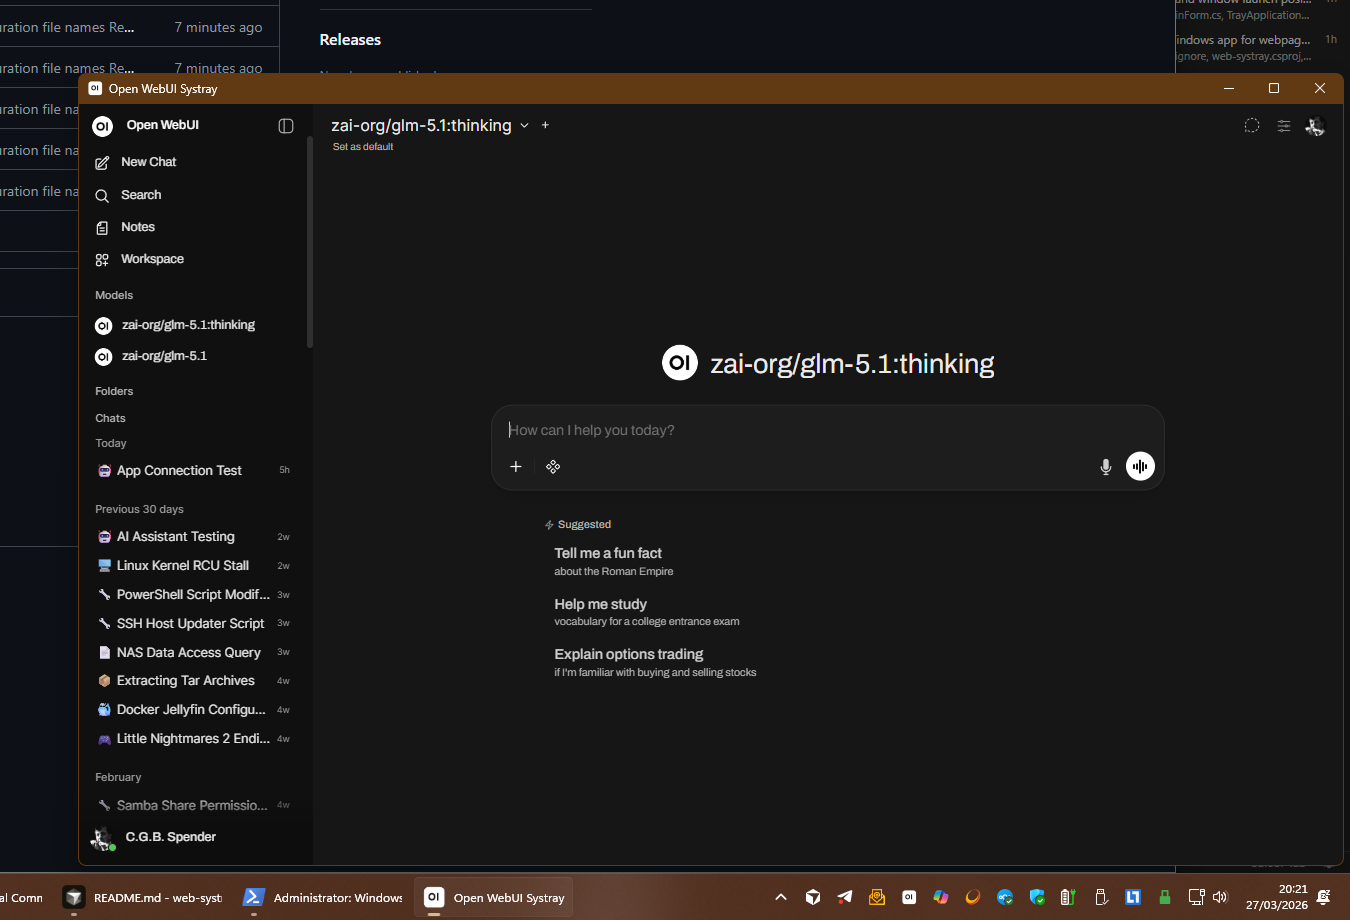
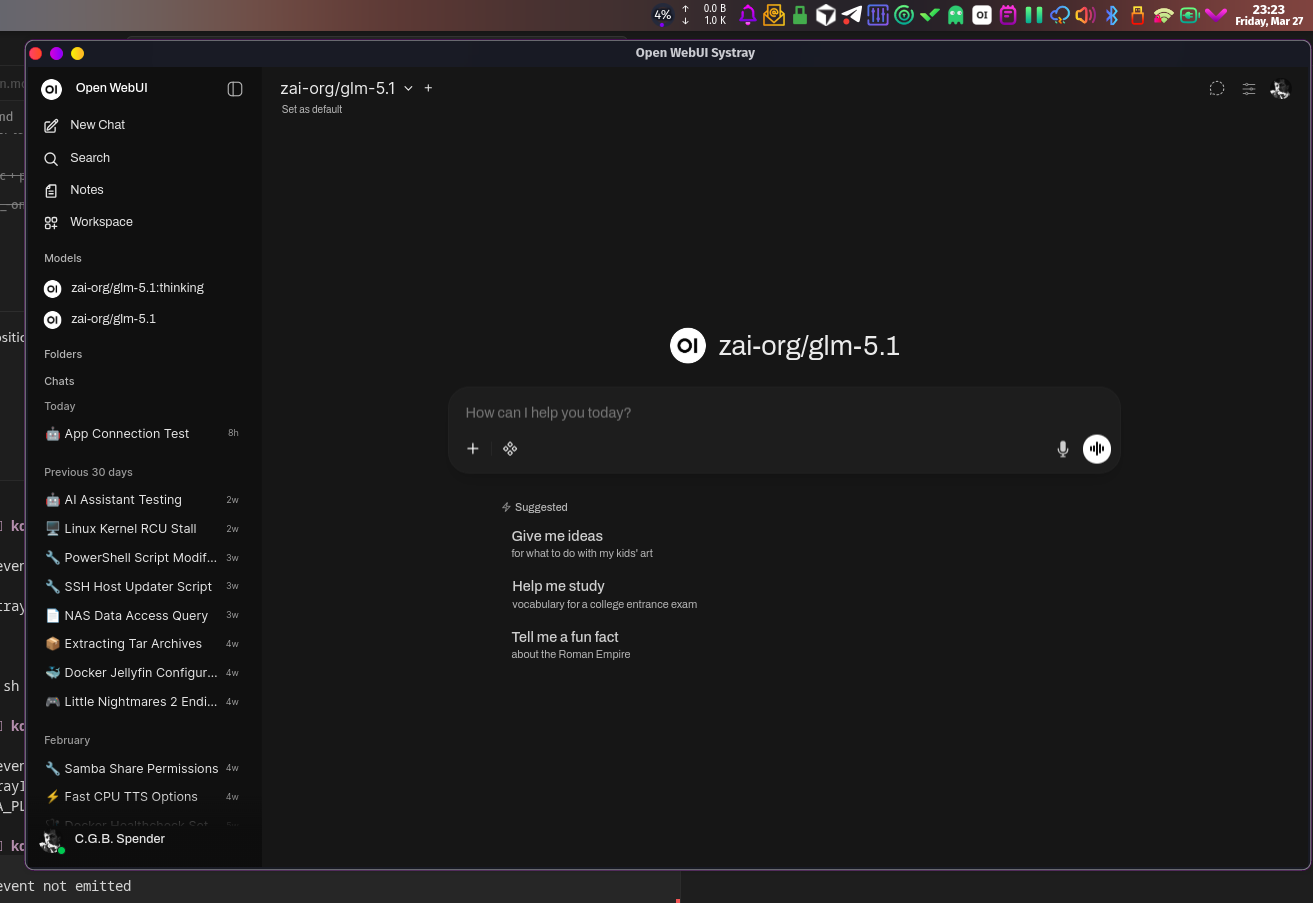
Refactor application to Python with PyQt6

diff --git a/src/open_webui_systray/mainwindow.py b/src/open_webui_systray/mainwindow.py
@@ -2,15 +2,18 @@
 
 from __future__ import annotations
 
+import sys
 from urllib.parse import urlparse
 
-from PyQt6.QtCore import QUrl, Qt
-from PyQt6.QtGui import QColor, QCloseEvent, QIcon
+from PyQt6.QtCore import QTimer, QUrl, Qt
+from PyQt6.QtGui import QColor, QCloseEvent, QGuiApplication, QIcon, QShowEvent
 from PyQt6.QtWebEngineCore import QWebEnginePage, QWebEngineProfile, QWebEngineSettings
 from PyQt6.QtWebEngineWidgets import QWebEngineView
-from PyQt6.QtWidgets import QApplication, QMainWindow, QMessageBox
+from PyQt6.QtWidgets import QApplication, QMainWindow, QMessageBox, QSystemTrayIcon
 
 from open_webui_systray.config import data_dir
+
+_EDGE_MARGIN = 8
 
 
 def _is_navigation_allowed(uri_string: str, allowed_host: str) -> bool:
@@ -50,19 +53,22 @@ class RestrictedWebEnginePage(QWebEnginePage):
 
 
 class MainWindow(QMainWindow):
-    def __init__(self, start_url: str, window_icon: QIcon, parent=None) -> None:
+    def __init__(
+        self,
+        start_url: str,
+        window_icon: QIcon,
+        tray: QSystemTrayIcon | None = None,
+        parent=None,
+    ) -> None:
         super().__init__(parent)
         self._start_url = start_url
         self._force_quit = False
+        self._page: RestrictedWebEnginePage | None = None
+        self._tray = tray
 
         self.setWindowTitle("Open WebUI Systray")
         self.resize(1280, 800)
         self.setWindowIcon(window_icon)
-
-        screen = self.screen() or QApplication.primaryScreen()
-        if screen is not None:
-            wa = screen.availableGeometry()
-            self.move(wa.right() - self.width(), wa.bottom() - self.height())
 
         self.setStyleSheet("background-color: black;")
 
@@ -72,28 +78,81 @@ class MainWindow(QMainWindow):
             raise ValueError("Start URL must include a host.")
 
         storage_root = data_dir()
-        profile = QWebEngineProfile("OpenWebUiSystray")
+        # defaultProfile() avoids PyQt/QtWebEngine destroying a custom profile before the page
+        # (see Qt warning "Release of profile requested but WebEnginePage still not deleted").
+        profile = QWebEngineProfile.defaultProfile()
         profile.setPersistentStoragePath(str(storage_root / "qtwebengine"))
         profile.setCachePath(str(storage_root / "qtwebengine-cache"))
 
-        page = RestrictedWebEnginePage(allowed_host, profile, self)
-        settings = page.settings()
+        self._web_view = QWebEngineView(self)
+        self._page = RestrictedWebEnginePage(allowed_host, profile, self._web_view)
+        settings = self._page.settings()
         settings.setAttribute(QWebEngineSettings.WebAttribute.JavascriptEnabled, True)
 
-        self._web_view = QWebEngineView(self)
-        self._web_view.setPage(page)
+        self._web_view.setPage(self._page)
         self._web_view.setStyleSheet("background-color: black;")
-        page.setBackgroundColor(QColor(0, 0, 0))
+        self._page.setBackgroundColor(QColor(0, 0, 0))
         self._web_view.setZoomFactor(0.9)
         self.setCentralWidget(self._web_view)
 
         self._web_view.load(QUrl(start_url))
+
+    def position_near_tray(self, tray: QSystemTrayIcon) -> None:
+        """Place top-right or bottom-right of the work area from tray geometry, else platform fallback."""
+        w, h = self.width(), self.height()
+        g = tray.geometry()
+        screen = None
+
+        if g.width() > 0 and g.height() > 0:
+            screen = QGuiApplication.screenAt(g.center())
+        if screen is None:
+            wh = self.windowHandle()
+            if wh is not None:
+                screen = wh.screen()
+        if screen is None:
+            screen = self.screen() or QApplication.primaryScreen()
+        if screen is None:
+            return
+        wa = screen.availableGeometry()
+
+        if g.width() > 0 and g.height() > 0:
+            tray_top = g.center().y() < wa.center().y()
+            x = wa.right() - w - _EDGE_MARGIN
+            if tray_top:
+                y = wa.top() + _EDGE_MARGIN
+            else:
+                y = wa.bottom() - h - _EDGE_MARGIN
+        else:
+            x = wa.right() - w - _EDGE_MARGIN
+            if sys.platform == "win32":
+                y = wa.bottom() - h - _EDGE_MARGIN
+            else:
+                y = wa.top() + _EDGE_MARGIN
+
+        x = max(wa.left(), min(x, wa.right() - w))
+        y = max(wa.top(), min(y, wa.bottom() - h))
+        self.move(x, y)
+
+    def showEvent(self, event: QShowEvent) -> None:
+        super().showEvent(event)
+        if self._tray is not None:
+            self.position_near_tray(self._tray)
+            QTimer.singleShot(0, self._deferred_position_after_show)
+            QTimer.singleShot(50, self._deferred_position_after_show)
+
+    def _deferred_position_after_show(self) -> None:
+        if self._tray is not None:
+            self.position_near_tray(self._tray)
 
     def prepare_force_quit(self) -> None:
         self._force_quit = True
 
     def closeEvent(self, event: QCloseEvent) -> None:
         if self._force_quit:
+            # Drop the page before the window is destroyed so the profile is not torn down first.
+            if self._web_view is not None:
+                self._web_view.setPage(None)
+            self._page = None
             event.accept()
             return
         event.ignore()

diff --git a/src/open_webui_systray/tray.py b/src/open_webui_systray/tray.py
@@ -45,6 +45,7 @@ class TrayManager:
     def __init__(self, start_url: str) -> None:
         self._start_url = start_url
         self._main: MainWindow | None = None
+        self._main_window_loading = False
 
         self._icon = generate_tray_icon()
         self._tray = QSystemTrayIcon(self._icon)
@@ -75,8 +76,11 @@ class TrayManager:
 
     def _show_main_window(self) -> None:
         if self._main is None:
+            if self._main_window_loading:
+                return
+            self._main_window_loading = True
             try:
-                self._main = MainWindow(self._start_url, self._icon)
+                self._main = MainWindow(self._start_url, self._icon, self._tray)
             except Exception as ex:
                 QMessageBox.critical(
                     None,
@@ -85,7 +89,10 @@ class TrayManager:
                 )
                 QApplication.quit()
                 return
+            finally:
+                self._main_window_loading = False
 
+        self._main.position_near_tray(self._tray)
         self._main.showNormal()
         self._main.raise_()
         self._main.activateWindow()
